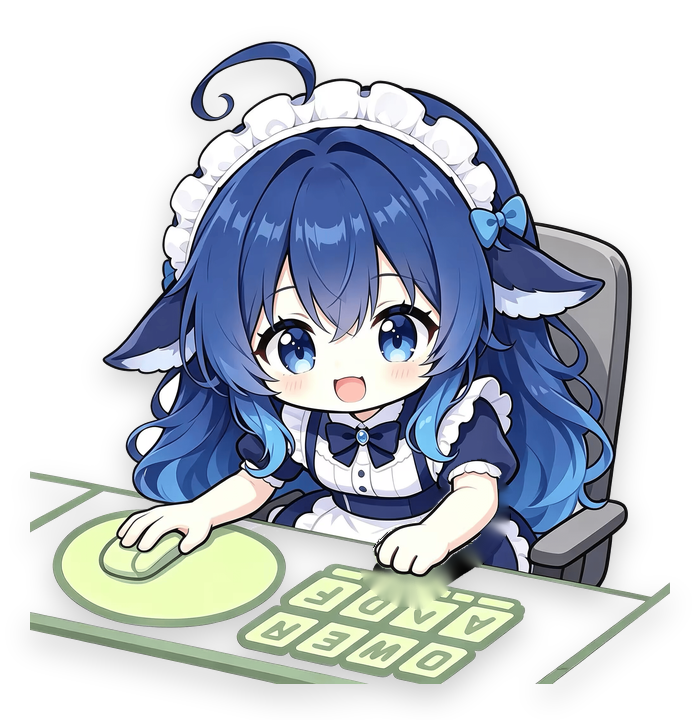
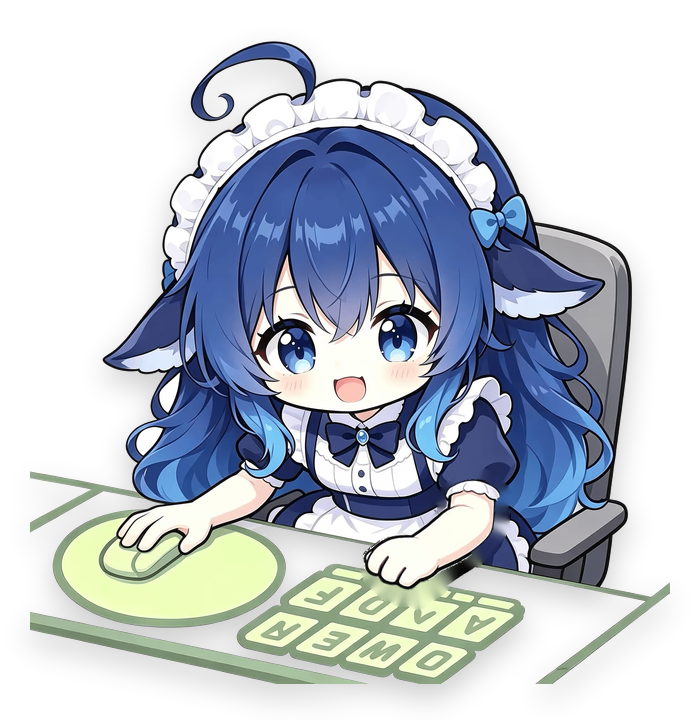
改为绕手臂根部小幅倾斜，避免手部平移断开
不再整体平移手部图层，改为绕肘部/袖口支点旋转约 7°；根部固定，手、鼠标和整段小臂一起倾斜。

Changed region(s): [[0.51, 0.6417, 0.72, 0.825]]

diff --git a/tools/build_assets.py b/tools/build_assets.py
@@ -43,6 +43,10 @@ HAND_RIGHT_KEY = {
            (325, 555)],
     "min_y": 435,
 }
+# Rotation pivots sit inside the cuff/elbow, so the end near the body stays
+# fixed while the forearm and paw tilt as one rigid layer.
+HAND_RIGHT_PIVOT = (447, 452)
+HAND_LEFT_PIVOT = (225, 452)
 HAND_LEFT_MOUSE = {
     "box": (60, 430, 235, 525),
     "fg": [(100, 480), (125, 485), (145, 480),
@@ -167,6 +171,23 @@ def compose_hand(base: Image.Image, sticker: Image.Image,
     return composed
 
 
+def compose_hand_tilt(base: Image.Image, sticker: Image.Image,
+                      pivot: tuple[int, int], angle: float) -> Image.Image:
+    """Tilt the hand layer around its elbow; the pivot itself never moves."""
+    if abs(angle) < 0.01:
+        layer = sticker
+    else:
+        layer = sticker.rotate(
+            angle,
+            resample=Image.Resampling.BICUBIC,
+            center=pivot,
+            expand=False,
+        )
+    composed = base.copy()
+    composed.alpha_composite(layer)
+    return composed
+
+
 def remove_background(image: Image.Image) -> Image.Image:
     """Remove the white sheet connected to the image border.
 
@@ -283,6 +304,19 @@ def build_hand_state(name: str, base: Image.Image, sticker: Image.Image,
     print(f"{name:5s}: {len(offsets)} frames (separated hand)")
 
 
+def build_tilt_state(name: str, base: Image.Image, sticker: Image.Image,
+                     pivot: tuple[int, int], angles: list[float]) -> None:
+    """Save frames where the paw/forearm only tilts around its elbow."""
+    target = ASSETS / name
+    target.mkdir(parents=True, exist_ok=True)
+    for old in target.glob("*.png"):
+        old.unlink()
+    for i, angle in enumerate(angles):
+        frame = make_frame(compose_hand_tilt(base, sticker, pivot, angle))
+        frame.save(target / f"{i:02d}.png", optimize=True)
+    print(f"{name:5s}: {len(angles)} frames (tilted hand)")
+
+
 def build_icon(pose1: Image.Image) -> None:
     # Crop the face from the clean pose and put it on a sky-blue rounded tile.
     # Values are in the 2016x2048 source coordinate system.
@@ -360,15 +394,12 @@ def main() -> None:
         build_state(name, state_scene, params)
 
     # The keyboard and mousepad stay byte-for-byte identical across these
-    # frames; only the cut-out paw moves.
-    build_hand_state("mouse", mouse_base, mouse_sticker, [
-        (0, 0), (8, -1), (15, 1), (20, 2),
-        (13, 0), (0, -1), (-13, 0), (-20, 2),
-    ], shadow=False)
-    build_hand_state("key", key_base, key_sticker, [
-        (0, 0), (-1, -6), (0, -13), (1, -20),
-        (0, -12), (-1, -5), (0, 1), (0, 0),
-    ])
+    # frames.  The hand layer is not translated: it pivots a few degrees around
+    # the cuff/elbow, so its root stays attached to the upper arm.
+    build_tilt_state("mouse", mouse_base, mouse_sticker, HAND_LEFT_PIVOT,
+                     [0, 2, 4, 7, 4, 2, 0, 0])
+    build_tilt_state("key", key_base, key_sticker, HAND_RIGHT_PIVOT,
+                     [0, -2, -4, -7, -4, -2, 0, 0])
 
     counts = {name: len(params) for name, (_, params) in specs.items()}
     counts["mouse"] = 8

diff --git a/README.md b/README.md
@@ -5,7 +5,7 @@
 ## 已实现
 
 - **角色**：使用 `design/feiyu.png` 作为唯一原画，去白底后生成 18 帧透明动画；桌宠窗口为 100×100。
-- **鼠标/键盘活动感知**：只统计“有活动”，不保存按键内容；鼠标移动时左手会带着鼠标本体在鼠标垫上滑动，鼠标垫本身固定；键盘敲击时右手会抬起再敲下；待机和拖拽时整张桌子不动，键盘和鼠标垫始终固定，只有独立的手部图层运动。
+- **鼠标/键盘活动感知**：只统计“有活动”，不保存按键内容；鼠标移动时左手带着鼠标本体，绕手臂根部小幅倾斜，鼠标垫固定；键盘敲击时右手整段小臂绕根部小幅倾斜，根部不动、不做整体平移；待机和拖拽时整张桌子不动，键盘和鼠标垫始终固定，只有独立的手部图层运动。
 - **左键拖拽**：按住并移动即可拖走桌宠。
 - **左键短按**：升起 `deep` 气泡。
 - **五次短按**：1.5 秒内累计五次短按，照样弹出 `deep` 气泡（无音效）。
